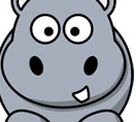
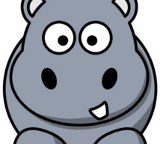
added images with higher resolution

diff --git a/include/css/example.css b/include/css/example.css
@@ -68,7 +68,7 @@
   margin-top: 0.2em;
   text-align: center;
   overflow:hidden;
-  height: 25em;
+  height: 19em;
 }
 
 #wrapper article div#newestProjects ul {
@@ -84,7 +84,7 @@
 	display:inline-block;
 	position:relative;
 	left:-50%;
-	width: 140px;
+	width: 84px;
 	margin: 0.6em 0.5em 1.6em 0.5em;
 	vertical-align: top;
 }
@@ -99,19 +99,21 @@
 	overflow: hidden;
 }
 
-#wrapper article div#newestProjects ul li div.projectTitle a {
-	text-align: left;
-	font-size: 1.0em;
-	font-weight: bold;
-	margin-top: 0.5em;
-	text-decoration: none; 
-  color: #a8dff4;
+#wrapper article div#showAll {
+  margin-top: 0.4em;
+  text-align: center;
 }
 
-#wrapper article div#newestProjects ul li div.projectAddition a {
+#wrapper article div#newestProjects ul li div.projectTitle {
 	text-align: left;
-	text-decoration: none; 
-  color: #a8dff4;
+	font-size: 0.8em;
+	font-weight: bold;
+	margin-top: 0.5em;
+}
+
+#wrapper article div#newestProjects ul li div.projectAddition {
+	text-align: left;
+	font-size: 0.7em;
 }
 
 #wrapper article div#newestProjects ul li div.projectLink {
@@ -126,16 +128,4 @@
 	text-decoration: none;
 	color: #76b0c6;
 	font-weight: bold;
-}
-
-#wrapper article div#showMore p {
-  text-align: center;
-  margin: 0em;
-}
-
-#wrapper article div#iconShowMore {
-  background-color: #00475d;
-  width: 3.2em;
-  height: 3.2em;
-  margin: 0.5em auto;
 }

diff --git a/viewer/catroid/example.php b/viewer/catroid/example.php
@@ -38,68 +38,95 @@
         <div id="newestProjects">
           <ul>
 					  <li>
-					    <a href="<?php echo BASE_PATH?>catroid/details/1"><img src="<?php echo BASE_PATH; ?>images/symbols/thumb1.png" /></a>
-					    <div class="projectTitle"><a href="<?php echo BASE_PATH?>catroid/details/1">The Happy Hippo</a></div>
-              <div class="projectAddition"><a href="<?php echo BASE_PATH?>catroid/details/1">20 minutes ago</a></div>
-              
+					    <a href="<?php echo BASE_PATH?>catroid/details/1"><img src="<?php echo BASE_PATH; ?>images/symbols/thumb1.png" width="80" /></a>
+					    <div class="projectTitle">The Happy Hippo</div>
+              <div class="projectAddition">20 minutes ago</div>
 						</li>
 					  <li>
-					    <a href="<?php echo BASE_PATH?>catroid/details/2"><img src="<?php echo BASE_PATH; ?>images/symbols/thumb2.png" /></a>
-					    <div class="projectTitle"><a href="<?php echo BASE_PATH?>catroid/details/2">Der Katzenräuber</a></div>
-              <div class="projectAddition"><a href="<?php echo BASE_PATH?>catroid/details/2">about 2 hours ago</a></div>
+					    <a href="<?php echo BASE_PATH?>catroid/details/2"><img src="<?php echo BASE_PATH; ?>images/symbols/thumb2.png" width="80" /></a>
+					    <div class="projectTitle">Der Katzenräuber</div>
+              <div class="projectAddition">about 2 hours ago</div>
 						</li>
 					  <li>
-					    <a href="<?php echo BASE_PATH?>catroid/details/2"><img src="<?php echo BASE_PATH; ?>images/symbols/thumb3.png" /></a>
-					    <div class="projectTitle"><a href="<?php echo BASE_PATH?>catroid/details/2">The Angry Hippo</a></div>
-              <div class="projectAddition"><a href="<?php echo BASE_PATH?>catroid/details/2">about 4 days ago</a></div>
+					    <a href="<?php echo BASE_PATH?>catroid/details/2"><img src="<?php echo BASE_PATH; ?>images/symbols/thumb3.png" width="80" /></a>
+					    <div class="projectTitle">The Angry Hippo</div>
+              <div class="projectAddition">about 4 days ago</div>
 						</li>
 					  <li>
-					    <a href="<?php echo BASE_PATH?>catroid/details/1"><img src="<?php echo BASE_PATH; ?>images/symbols/thumb1.png" /></a>
-					    <div class="projectTitle"><a href="<?php echo BASE_PATH?>catroid/details/1">The Happy Hippo</a></div>
-              <div class="projectAddition"><a href="<?php echo BASE_PATH?>catroid/details/1">20 minutes ago</a></div>
+					    <a href="<?php echo BASE_PATH?>catroid/details/1"><img src="<?php echo BASE_PATH; ?>images/symbols/thumb1.png" width="80" /></a>
+					    <div class="projectTitle">The Happy Hippo</div>
+              <div class="projectAddition">20 minutes ago</div>
 						</li>
 					  <li>
-					    <a href="<?php echo BASE_PATH?>catroid/details/2"><img src="<?php echo BASE_PATH; ?>images/symbols/thumb2.png" /></a>
-					    <div class="projectTitle"><a href="<?php echo BASE_PATH?>catroid/details/1">Der Katzenräuber</a></div>
-              <div class="projectAddition"><a href="<?php echo BASE_PATH?>catroid/details/1">about 2 hours ago</a></div>
+					    <a href="<?php echo BASE_PATH?>catroid/details/2"><img src="<?php echo BASE_PATH; ?>images/symbols/thumb2.png" width="80" /></a>
+					    <div class="projectTitle">Der Katzenräuber</div>
+              <div class="projectAddition">about 2 hours ago</div>
 						</li>
 					  <li>
-					    <a href="<?php echo BASE_PATH?>catroid/details/2"><img src="<?php echo BASE_PATH; ?>images/symbols/thumb3.png" /></a>
-					    <div class="projectTitle"><a href="<?php echo BASE_PATH?>catroid/details/2">The Angry Hippo</a></div>
-              <div class="projectAddition"><a href="<?php echo BASE_PATH?>catroid/details/2">about 4 days ago</a></div>
+					    <a href="<?php echo BASE_PATH?>catroid/details/2"><img src="<?php echo BASE_PATH; ?>images/symbols/thumb3.png" width="80" /></a>
+					    <div class="projectTitle">The Angry Hippo</div>
+              <div class="projectAddition">about 4 days ago</div>
 						</li>					  <li>
-					    <a href="<?php echo BASE_PATH?>catroid/details/1"><img src="<?php echo BASE_PATH; ?>images/symbols/thumb1.png" /></a>
-					    <div class="projectTitle"><a href="<?php echo BASE_PATH?>catroid/details/1">The Happy Hippo</a></div>
-              <div class="projectAddition"><a href="<?php echo BASE_PATH?>catroid/details/1">20 minutes ago</a></div>
+					    <a href="<?php echo BASE_PATH?>catroid/details/1"><img src="<?php echo BASE_PATH; ?>images/symbols/thumb1.png" width="80" /></a>
+					    <div class="projectTitle">The Happy Hippo</div>
+              <div class="projectAddition">20 minutes ago</div>
 						</li>
 					  <li>
-					    <a href="<?php echo BASE_PATH?>catroid/details/2"><img src="<?php echo BASE_PATH; ?>images/symbols/thumb2.png" /></a>
-					    <div class="projectTitle"><a href="<?php echo BASE_PATH?>catroid/details/2">Der Katzenräuber</a></div>
-              <div class="projectAddition"><a href="<?php echo BASE_PATH?>catroid/details/2">about 2 hours ago</a></div>
+					    <a href="<?php echo BASE_PATH?>catroid/details/2"><img src="<?php echo BASE_PATH; ?>images/symbols/thumb2.png" width="80" /></a>
+					    <div class="projectTitle">Der Katzenräuber</div>
+              <div class="projectAddition">about 2 hours ago</div>
 						</li>
 					  <li>
-					    <a href="<?php echo BASE_PATH?>catroid/details/2"><img src="<?php echo BASE_PATH; ?>images/symbols/thumb3.png" /></a>
-					    <div class="projectTitle"><a href="<?php echo BASE_PATH?>catroid/details/2">The Angry Hippo</a></div>
-              <div class="projectAddition"><a href="<?php echo BASE_PATH?>catroid/details/2">about 4 days ago</a></div>
+					    <a href="<?php echo BASE_PATH?>catroid/details/2"><img src="<?php echo BASE_PATH; ?>images/symbols/thumb3.png" width="80" /></a>
+					    <div class="projectTitle">The Angry Hippo</div>
+              <div class="projectAddition">about 4 days ago</div>
 						</li>					  <li>
-					    <a href="<?php echo BASE_PATH?>catroid/details/1"><img src="<?php echo BASE_PATH; ?>images/symbols/thumb1.png" /></a>
-					    <div class="projectTitle"><a href="<?php echo BASE_PATH?>catroid/details/1">The Happy Hippo</a></div>
-              <div class="projectAddition"><a href="<?php echo BASE_PATH?>catroid/details/1">20 minutes ago</a></div>
+					    <a href="<?php echo BASE_PATH?>catroid/details/1"><img src="<?php echo BASE_PATH; ?>images/symbols/thumb1.png" width="80" /></a>
+					    <div class="projectTitle">The Happy Hippo</div>
+              <div class="projectAddition">20 minutes ago</div>
 						</li>
 					  <li>
-					    <a href="<?php echo BASE_PATH?>catroid/details/2"><img src="<?php echo BASE_PATH; ?>images/symbols/thumb2.png" /></a>
-					    <div class="projectTitle"><a href="<?php echo BASE_PATH?>catroid/details/2">Der Katzenräuber</a></div>
-              <div class="projectAddition"><a href="<?php echo BASE_PATH?>catroid/details/2">about 2 hours ago</a></div>
+					    <a href="<?php echo BASE_PATH?>catroid/details/2"><img src="<?php echo BASE_PATH; ?>images/symbols/thumb2.png" width="80" /></a>
+					    <div class="projectTitle">Der Katzenräuber</div>
+              <div class="projectAddition">about 2 hours ago</div>
 						</li>
 					  <li>
-					    <a href="<?php echo BASE_PATH?>catroid/details/2"><img src="<?php echo BASE_PATH; ?>images/symbols/thumb3.png" /></a>
-					    <div class="projectTitle"><a href="<?php echo BASE_PATH?>catroid/details/2">The Angry Hippo</a></div>
-              <div class="projectAddition"><a href="<?php echo BASE_PATH?>catroid/details/2">about 4 days ago</a></div>
+					    <a href="<?php echo BASE_PATH?>catroid/details/2"><img src="<?php echo BASE_PATH; ?>images/symbols/thumb3.png" width="80" /></a>
+					    <div class="projectTitle">The Angry Hippo</div>
+              <div class="projectAddition">about 4 days ago</div>
+						</li>					  <li>
+					    <a href="<?php echo BASE_PATH?>catroid/details/1"><img src="<?php echo BASE_PATH; ?>images/symbols/thumb1.png" width="80" /></a>
+					    <div class="projectTitle">The Happy Hippo</div>
+              <div class="projectAddition">20 minutes ago</div>
+						</li>
+					  <li>
+					    <a href="<?php echo BASE_PATH?>catroid/details/2"><img src="<?php echo BASE_PATH; ?>images/symbols/thumb2.png" width="80" /></a>
+					    <div class="projectTitle">Der Katzenräuber</div>
+              <div class="projectAddition">about 2 hours ago</div>
+						</li>
+					  <li>
+					    <a href="<?php echo BASE_PATH?>catroid/details/2"><img src="<?php echo BASE_PATH; ?>images/symbols/thumb3.png" width="80" /></a>
+					    <div class="projectTitle">The Angry Hippo</div>
+              <div class="projectAddition">about 4 days ago</div>
+						</li>					  <li>
+					    <a href="<?php echo BASE_PATH?>catroid/details/1"><img src="<?php echo BASE_PATH; ?>images/symbols/thumb1.png" width="80" /></a>
+					    <div class="projectTitle">The Happy Hippo</div>
+              <div class="projectAddition">20 minutes ago</div>
+						</li>
+					  <li>
+					    <a href="<?php echo BASE_PATH?>catroid/details/2"><img src="<?php echo BASE_PATH; ?>images/symbols/thumb2.png" width="80" /></a>
+					    <div class="projectTitle">Der Katzenräuber</div>
+              <div class="projectAddition">about 2 hours ago</div>
+						</li>
+					  <li>
+					    <a href="<?php echo BASE_PATH?>catroid/details/2"><img src="<?php echo BASE_PATH; ?>images/symbols/thumb3.png" width="80" /></a>
+					    <div class="projectTitle">The Angry Hippo</div>
+              <div class="projectAddition">about 4 days ago</div>
 						</li>
 					</ul>
         </div>
-        <div id="showMore">
-          <div id="iconShowMore"><img src="<?php echo BASE_PATH; ?>images/symbols/show_more.png"/></div>
-          <p>Show more</p>
+        <div id="showAll">
+          <a><img src="<?php echo BASE_PATH; ?>images/symbols/show_more.png"/><br/>
+          Show more</a>
         </div>
       </article>

diff --git a/viewer/catroid/htmlTemplate.php b/viewer/catroid/htmlTemplate.php
@@ -63,6 +63,8 @@ $this->module->addGlobalJs('login.js');
     <link rel="icon" href="<?php echo BASE_PATH?>images/logo/favicon.png<?php echo '?'.VERSION?>" type="image/png" />
   </head>
   <body>
+    <div style="position:absolute; left:0px; top:2px; width:320px; background-color: red; height:20px;color:black;">320dp</div>
+    <div style="position:absolute; left:0px; top:15px; width:360px; background-color: green; height:20px;color:black;">360dp</div>
 
     <div id="wrapper">
       <?php include($this->header);?>
